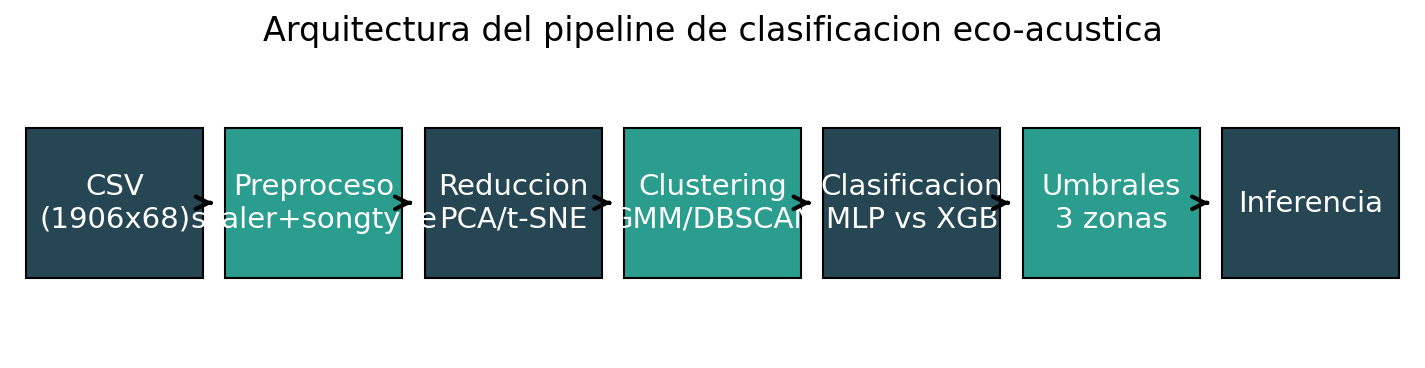
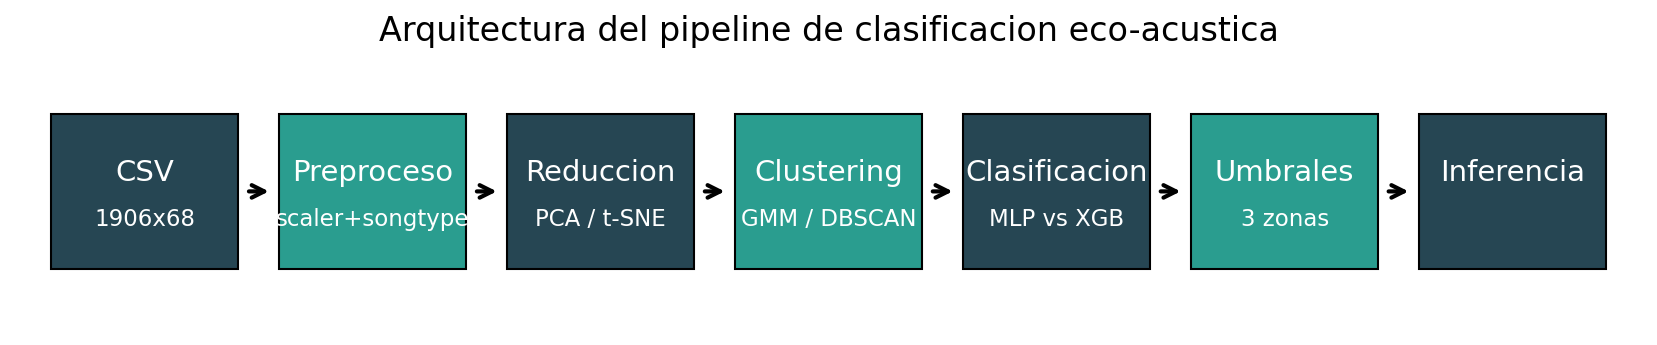
informe, app de streamlit y documentacion

Changed region(s): [[0.0, 0.3188, 0.9881, 0.7826], [0.1853, 0.029, 0.8337, 0.1449]]

diff --git a/report/informe.tex b/report/informe.tex
@@ -1,0 +1,223 @@
+\documentclass[10pt,a4paper]{article}
+\usepackage[utf8]{inputenc}
+\usepackage[T1]{fontenc}
+\usepackage[spanish,es-noindentfirst]{babel}
+\usepackage[margin=1.9cm]{geometry}
+\usepackage{graphicx}
+\usepackage{booktabs}
+\usepackage{amsmath}
+\usepackage{amssymb}
+\usepackage{caption}
+\usepackage{subcaption}
+\usepackage{float}
+\usepackage{multicol}
+\usepackage[colorlinks=true,allcolors=blue]{hyperref}
+\graphicspath{{figs/}}
+\captionsetup{font=small,labelfont=bf}
+\setlength{\parskip}{2pt}
+
+\title{\vspace{-1.2cm}\textbf{Clasificación de Señales Eco-Acústicas:\\ un pipeline integral de Machine Learning}}
+\author{CS3061 Machine Learning -- UTEC -- Proyecto 2 (Grupo 8)}
+\date{\vspace{-0.3cm}\small Junio 2026 \quad$\cdot$\quad Repositorio: \texttt{<URL\_GITHUB>}}
+
+\begin{document}
+\maketitle
+\vspace{-0.6cm}
+
+\section{Resumen Ejecutivo e Introducción al Espacio Vectorial}
+La identificación autónoma de especies a partir de su huella acústica es una herramienta
+clave para el biomonitoreo de ecosistemas. Se aborda la clasificación supervisada de
+\textbf{5 especies} (2 anfibios y 3 aves) a partir de descriptores espectrales. El conjunto
+de entrenamiento contiene $N=1906$ observaciones y el de prueba $477$, ambos descritos por
+un vector de características $\mathbf{x}\in\mathbb{R}^{64}$ correspondiente a coeficientes
+\emph{Mel-Frequency Cepstral} (\texttt{mel\_0}--\texttt{mel\_63}). La variable objetivo
+$y\in\{10,12,17,18,23\}$ presenta un \textbf{desbalance moderado de 2:1} (Fig.~\ref{fig:eda}a).
+Tras el análisis de variables auxiliares se incorporó \texttt{songtype\_id} (codificada
+\emph{one-hot}), resultando en un espacio efectivo de $66$ dimensiones.
+
+\begin{figure}[H]
+\centering
+\begin{subfigure}{0.40\textwidth}\includegraphics[width=\linewidth]{balance_clases.png}\caption{}\end{subfigure}\hfill
+\begin{subfigure}{0.40\textwidth}\includegraphics[width=\linewidth]{correlacion_mel.png}\caption{}\end{subfigure}
+\caption{(a) Distribución de clases con desbalance 2:1. (b) Multicolinealidad severa entre
+las 64 características MFCC ($113$ pares con $|r|>0.9$), lo que motiva la reducción de dimensionalidad.}
+\label{fig:eda}
+\end{figure}
+
+\textbf{Decisiones de ingeniería de datos.} Se excluyó \texttt{recording\_id} por inducir
+fuga de información (el $26.9\%$ de los identificadores del conjunto de prueba aparecen en
+entrenamiento). Las características se estandarizaron con \texttt{StandardScaler} ajustado
+\emph{únicamente} sobre el entrenamiento para evitar contaminación del conjunto de prueba.
+La arquitectura completa del pipeline se ilustra en la Fig.~\ref{fig:arq}.
+
+\begin{figure}[H]
+\centering\includegraphics[width=0.93\textwidth]{arquitectura_pipeline.png}
+\caption{Arquitectura del pipeline: desde la ingesta del CSV hasta la política de inferencia con umbrales.}
+\label{fig:arq}
+\end{figure}
+
+\section{Exploración Geométrica y Reducción de Dimensionalidad}
+Se contrastó un método lineal (PCA) frente a dos de variedades múltiples (t-SNE y UMAP).
+El PCA reveló una estructura de baja dimensionalidad intrínseca: \textbf{7 componentes}
+explican el $90\%$ de la varianza y $11$ alcanzan el $95\%$, dominando la primera componente
+con el $53.4\%$ (Fig.~\ref{fig:pca}). La Tabla~\ref{tab:red} reporta los tiempos de ejecución:
+PCA es tres órdenes de magnitud más rápido, mientras que t-SNE y UMAP, aplicados sobre una
+pre-reducción PCA(20), priorizan la preservación de la estructura local a un costo mayor.
+
+\begin{figure}[H]
+\centering
+\begin{subfigure}{0.45\textwidth}\includegraphics[width=\linewidth]{pca_varianza.png}\caption{}\end{subfigure}\hfill
+\begin{subfigure}{0.52\textwidth}\includegraphics[width=\linewidth]{proyecciones_2d.png}\caption{}\end{subfigure}
+\caption{(a) Varianza explicada por componente y acumulada. (b) Proyecciones 2D: las dos
+especies de anfibios tienden a separarse de las aves, pero persiste solapamiento intra-grupo.}
+\label{fig:pca}
+\end{figure}
+
+\begin{table}[H]
+\centering\small
+\begin{tabular}{lccc}
+\toprule
+Método & Tiempo (s) & Varianza retenida & Estructura preservada \\
+\midrule
+PCA(2)  & 0.0012 & 67.1\% & Global \\
+PCA(7)  & 0.0012 & 90.0\% & Global \\
+t-SNE(2) & 3.30 & --- & Local \\
+UMAP(2)  & 8.07 & --- & Local + global \\
+\bottomrule
+\end{tabular}
+\caption{Comparación de métodos de reducción de dimensionalidad (sobre $1906$ muestras).}
+\label{tab:red}
+\end{table}
+
+\section{Minería de Patrones y Estructuras de Clustering}
+Se compararon dos paradigmas: KMeans/GMM (centroide/probabilístico) y DBSCAN (densidad),
+operando sobre la proyección PCA(20). El número de grupos se eligió mediante el
+\textbf{Coeficiente de Silhouette} (Fig.~\ref{fig:clu}), cuyo máximo se ubica en $k=2$,
+sugiriendo que la partición no supervisada más nítida corresponde a la dicotomía
+\emph{anfibios vs.\ aves} antes que a las 5 especies. DBSCAN, barriendo $\varepsilon\in\{2.5,3.0,3.5\}$,
+fragmentó el espacio en $11$--$18$ grupos con ruido decreciente (Tabla~\ref{tab:db}).
+
+\begin{figure}[H]
+\centering\includegraphics[width=0.55\textwidth]{silhouette_k.png}
+\caption{Selección de $k$ por Silhouette para KMeans y GMM. El óptimo en $k=2$ refleja la separación anfibio/ave.}
+\label{fig:clu}
+\end{figure}
+
+\begin{table}[H]
+\centering\small
+\begin{tabular}{cccc}
+\toprule
+$\varepsilon$ & N.º clusters & \% ruido & Silhouette \\
+\midrule
+2.5 & 17 & 42.0\% & $-0.155$ \\
+3.0 & 18 & 26.7\% & $-0.051$ \\
+3.5 & 11 & 14.7\% & $\phantom{-}0.099$ \\
+\bottomrule
+\end{tabular}
+\caption{DBSCAN para distintos $\varepsilon$ (min\_samples$=5$).}
+\label{tab:db}
+\end{table}
+
+\noindent\textbf{Hallazgo.} El índice ARI entre el GMM de 5 componentes y las etiquetas reales
+es de apenas $0.051$: el agrupamiento acústico no supervisado \emph{no reconstruye la taxonomía}.
+Esto evidencia que la separación entre especies cercanas exige información supervisada.
+
+\section{Arquitectura de Clasificación: MLP vs.\ Modelos de Ensamble}
+Se entrenó un Perceptrón Multicapa (MLP) frente a un modelo de ensamble por \emph{gradient
+boosting} (XGBoost). Dada la naturaleza desbalanceada del problema, la métrica primaria es el
+\textbf{F1-Score macro} y la función de pérdida es la \emph{Cross-Entropy ponderada por clase}:
+\begin{equation}
+\mathcal{L} = -\frac{1}{N}\sum_{i=1}^{N}\sum_{c=1}^{5} w_c\, y_{i,c}\,\log \hat{p}_{i,c},
+\qquad w_c = \frac{N}{5\,n_c}.
+\end{equation}
+La topología del MLP se detalla en la Tabla~\ref{tab:topo}. Se validó con
+\texttt{StratifiedKFold} ($5$ particiones) y pesos de clase balanceados en ambos modelos.
+
+\begin{table}[H]
+\centering\small
+\begin{tabular}{llll}
+\toprule
+Capa & Salida & Activación & Regularización \\
+\midrule
+Linear & 256 & ReLU & BatchNorm + Dropout(0.3) \\
+Linear & 128 & ReLU & BatchNorm + Dropout(0.3) \\
+Linear & 64  & ReLU & BatchNorm + Dropout(0.3) \\
+Linear & 5   & Softmax & --- \\
+\bottomrule
+\end{tabular}
+\caption{Topología del MLP ($66\to256\to128\to64\to5$).}
+\label{tab:topo}
+\end{table}
+
+\textbf{Regularización.} Se evaluó empíricamente la \emph{posición relativa} de Dropout y
+BatchNorm sobre las curvas de pérdida (Fig.~\ref{fig:modelos}a). La configuración sin
+regularización minimiza la pérdida de entrenamiento ($0.39$) pero a costa de sobreajuste;
+las variantes regularizadas convergen a pérdidas mayores ($0.67$--$0.73$) y mejor generalización.
+
+\begin{figure}[H]
+\centering
+\begin{subfigure}{0.40\textwidth}\includegraphics[width=\linewidth]{curvas_dropout_bn.png}\caption{}\end{subfigure}\hfill
+\begin{subfigure}{0.28\textwidth}\includegraphics[width=\linewidth]{confusion_mlp.png}\caption{}\end{subfigure}\hfill
+\begin{subfigure}{0.28\textwidth}\includegraphics[width=\linewidth]{confusion_xgb.png}\caption{}\end{subfigure}
+\caption{(a) Impacto de la posición de Dropout/BatchNorm en la pérdida. (b)--(c) Matrices de
+confusión sobre el conjunto de prueba oficial para MLP y XGBoost; la confusión se concentra
+entre especies acústicamente cercanas.}
+\label{fig:modelos}
+\end{figure}
+
+\begin{table}[H]
+\centering\small
+\begin{tabular}{lccc}
+\toprule
+Modelo & F1-macro (CV) & F1-macro (test oficial) & Latencia (ms/muestra) \\
+\midrule
+MLP (PyTorch)      & $0.536$ & $\mathbf{0.575}$ & $0.0009$ \\
+XGBoost (ensamble) & $0.489$ & $0.536$ & $0.0075$ \\
+\bottomrule
+\end{tabular}
+\caption{Comparación de modelos. El MLP supera al ensamble en F1-macro y latencia.}
+\label{tab:modelos}
+\end{table}
+
+El MLP obtiene el mejor desempeño (F1-macro $=0.575$ en prueba, Tabla~\ref{tab:modelos}),
+consistente con la dificultad intrínseca estimada en el análisis exploratorio. Las matrices
+de confusión (Fig.~\ref{fig:modelos}b--c) confirman que el error se concentra en pares de
+especies con solapamiento espectral, no en un sesgo hacia la clase mayoritaria.
+
+\section{Decisiones de Ingeniería y Mitigación de Riesgos}
+\textbf{Trade-off costo--rendimiento.} El MLP no solo iguala sino que supera al ensamble en
+calidad ($+0.039$ F1-macro) con una latencia $8\times$ menor ($0.0009$ vs.\ $0.0075$ ms/muestra),
+ampliamente dentro de cualquier SLA operativo. Se selecciona por tanto como modelo de despliegue.
+
+\textbf{Política de moderación por umbrales.} Sobre el vector de probabilidades \emph{softmax}
+se define una política de tres zonas (Fig.~\ref{fig:umb}): \textbf{Verde} ($P\ge0.85$,
+clasificación automática), \textbf{Amarilla} ($0.40\le P<0.85$, derivación a auditoría humana)
+y \textbf{Roja} ($P<0.40$, descarte por ruido). La distribución de cobertura medida es
+$24.5\%$ / $67.1\%$ / $8.4\%$ respectivamente; la zona verde alcanza una exactitud del
+$76.1\%$ pese al F1-macro global moderado. Descartar la zona roja eleva el F1-macro de
+$0.536$ a $0.569$, validando cuantitativamente el umbral inferior.
+
+\begin{figure}[H]
+\centering\includegraphics[width=0.55\textwidth]{umbrales_zonas.png}
+\caption{Distribución de confianza del modelo y zonas operativas de decisión.}
+\label{fig:umb}
+\end{figure}
+
+\section*{Contribution Statement}
+\addcontentsline{toc}{section}{Contribution Statement}
+\begin{table}[H]
+\centering\small
+\begin{tabular}{p{4.5cm}cp{7cm}}
+\toprule
+\textbf{Integrante} & \textbf{\% Contrib.} & \textbf{Tareas encargadas} \\
+\midrule
+Integrante 1 & 25\% & EDA, preprocesamiento, reducción de dimensionalidad \\
+Integrante 2 & 25\% & Clustering, métricas internas, redacción \\
+Integrante 3 & 25\% & Modelado MLP/XGBoost, experimentos de regularización \\
+Integrante 4 & 25\% & MLOps, umbrales, informe y repositorio \\
+\bottomrule
+\end{tabular}
+\caption{Matriz de coevaluación del equipo (completar con nombres reales).}
+\end{table}
+
+\end{document}

diff --git a/app.py b/app.py
@@ -1,0 +1,65 @@
+"""Bonus Streamlit (+2): inferencia simulada con escenarios reales del test + semaforo de umbrales.
+Uso:  ./venv/bin/streamlit run app.py
+"""
+import numpy as np
+import pandas as pd
+import joblib
+import streamlit as st
+from pathlib import Path
+
+BASE = Path(__file__).resolve().parent
+MEL = [f"mel_{i}" for i in range(64)]
+SPECIES = {10: "Leptodactylus discodactylus (anfibio)", 12: "Osteocephalus taurinus (anfibio)",
+           17: "Chiroxiphia lineata (ave)", 18: "Saltator grossus (ave)",
+           23: "Pheucticus chrysopeplus (ave)"}
+CLASES = [10, 12, 17, 18, 23]
+
+st.set_page_config(page_title="Clasificador Eco-Acustico", page_icon="🐸", layout="centered")
+st.title("🐦 Clasificador de Señales Eco-Acústicas")
+st.caption("CS3061 · Proyecto 2 · Inferencia con política de moderación por umbrales")
+
+
[email redacted]_resource
+def cargar():
+    data = joblib.load(BASE / "models/xgb_scaler.pkl")
+    test = pd.read_csv(BASE / "data/eco_acoustic_test.csv")
+    return data["xgb"], data["scaler"], test
+
+
+modelo, scaler, test = cargar()
+
+# escenarios precargados: 6 grabaciones reales del test
+ids = test["recording_id"].drop_duplicates().head(6).tolist()
+sel = st.selectbox("Escenario (grabación real del conjunto de prueba):", ids)
+fila = test[test["recording_id"] == sel].iloc[0]
+
+# preprocesar igual que en entrenamiento (scaler de mel + songtype one-hot)
+x_mel = scaler.transform(fila[MEL].to_numpy().reshape(1, -1))
+st_dummies = pd.get_dummies(test["songtype_id"], prefix="songtype").iloc[[fila.name]].to_numpy()
+X = np.hstack([x_mel, st_dummies]).astype(np.float32)
+
+proba = modelo.predict_proba(X)[0]
+pred = CLASES[int(proba.argmax())]
+pmax = float(proba.max())
+
+# --- semaforo de 3 zonas ---
+if pmax >= 0.85:
+    zona, color, accion = "VERDE", "#2a9d8f", "Clasificación automática (alta confianza)"
+elif pmax >= 0.40:
+    zona, color, accion = "AMARILLA", "#e9c46a", "Derivar a auditoría humana (incertidumbre)"
+else:
+    zona, color, accion = "ROJA", "#e76f51", "Descartar registro (probable ruido)"
+
+c1, c2 = st.columns([1, 1])
+c1.metric("Especie predicha", f"#{pred}")
+c1.write(SPECIES[pred])
+c2.metric("Confianza (P máx)", f"{pmax*100:.1f}%")
+st.markdown(f"<div style='background:{color};padding:14px;border-radius:8px;color:white;"
+            f"font-weight:bold;font-size:18px'>Zona {zona} — {accion}</div>", unsafe_allow_html=True)
+
+st.subheader("Distribución de probabilidad por especie")
+df = pd.DataFrame({"especie": [SPECIES[c] for c in CLASES], "probabilidad": proba})
+st.bar_chart(df.set_index("especie"))
+
+st.caption("Umbrales: Verde P≥85% · Amarillo 40–85% · Rojo <40%. "
+           "Especie real de este registro: #" + str(int(fila["species_id"])))

diff --git a/src/s1_eda.py b/src/s1_eda.py
@@ -34,20 +34,23 @@ def fig_corr(tr):
 
 def fig_arquitectura():
     """Diagrama de arquitectura del pipeline (C1), generado con matplotlib (sin deps externas)."""
-    fig, ax = plt.subplots(figsize=(12, 2.6))
+    fig, ax = plt.subplots(figsize=(14, 2.4))
     ax.axis("off")
-    etapas = ["CSV\n(1906x68)", "Preproceso\nscaler+songtype", "Reduccion\nPCA/t-SNE",
-              "Clustering\nGMM/DBSCAN", "Clasificacion\nMLP vs XGB", "Umbrales\n3 zonas", "Inferencia"]
-    n = len(etapas); w = 1.0 / n
-    for i, txt in enumerate(etapas):
+    etapas = [("CSV", "1906x68"), ("Preproceso", "scaler+songtype"), ("Reduccion", "PCA / t-SNE"),
+              ("Clustering", "GMM / DBSCAN"), ("Clasificacion", "MLP vs XGB"),
+              ("Umbrales", "3 zonas"), ("Inferencia", "")]
+    n = len(etapas); w = 1.0 / n; pad = 0.18 * w
+    for i, (tit, sub) in enumerate(etapas):
         x = i * w
-        ax.add_patch(plt.Rectangle((x + 0.008, 0.25), w - 0.016, 0.5,
+        ax.add_patch(plt.Rectangle((x + pad/2, 0.22), w - pad, 0.56,
                      facecolor="#264653" if i % 2 == 0 else "#2a9d8f", edgecolor="black"))
-        ax.text(x + w/2, 0.5, txt, ha="center", va="center", color="white", fontsize=14)
+        ax.text(x + w/2, 0.57, tit, ha="center", va="center", color="white", fontsize=14)
+        if sub:
+            ax.text(x + w/2, 0.40, sub, ha="center", va="center", color="white", fontsize=11)
         if i < n - 1:
-            ax.annotate("", xy=(x + w + 0.002, 0.5), xytext=(x + w - 0.006, 0.5),
+            ax.annotate("", xy=(x + w + pad/2 - 0.004, 0.5), xytext=(x + w - pad/2 + 0.004, 0.5),
                         arrowprops=dict(arrowstyle="->", lw=2))
-    ax.set_xlim(0, 1); ax.set_ylim(0, 1)
+    ax.set_xlim(-0.01, 1.01); ax.set_ylim(0, 1)
     ax.set_title("Arquitectura del pipeline de clasificacion eco-acustica", fontsize=16)
     return savefig(fig, "arquitectura_pipeline.png")
 

diff --git a/run_all.py b/run_all.py
@@ -1,0 +1,12 @@
+"""Reproduce todo el pipeline en orden (Sprints 0-5). Genera figuras y report/facts.json.
+Uso:  KMP_DUPLICATE_LIB_OK=TRUE OMP_NUM_THREADS=1 ./venv/bin/python run_all.py
+"""
+import os, sys, runpy
+os.environ.setdefault("KMP_DUPLICATE_LIB_OK", "TRUE")
+os.environ.setdefault("OMP_NUM_THREADS", "1")
+sys.path.insert(0, os.path.join(os.path.dirname(__file__), "src"))
+
+for mod in ["data", "s1_eda", "s2_reduccion", "s3_clustering", "s4_modelos", "s5_umbrales"]:
+    print(f"\n=== {mod} ===")
+    runpy.run_module(mod, run_name="__main__")
+print("\nPipeline completo. Ver figs/ y report/facts.json")

diff --git a/README.md b/README.md
@@ -1,0 +1,47 @@
+# Clasificación de Señales Eco-Acústicas — CS3061 Proyecto 2 (Grupo 8)
+
+Pipeline integral de Machine Learning que clasifica **5 especies** (2 anfibios + 3 aves)
+a partir de 64 coeficientes MFCC (X ∈ ℝ⁶⁴). Curso CS3061 Machine Learning, UTEC.
+
+## Resultados
+| Modelo | F1-macro (CV) | F1-macro (test oficial) | Latencia |
+|---|---|---|---|
+| **MLP (PyTorch)** | 0.536 | **0.575** | 0.0009 ms/muestra |
+| XGBoost | 0.489 | 0.536 | 0.0075 ms/muestra |
+
+El MLP es el modelo de despliegue. La tarea es intrínsecamente difícil (las especies
+cercanas se solapan acústicamente); el valor está en el análisis, no en un número inflado.
+
+## Estructura
+```
+src/            data.py (preproc) · s1_eda · s2_reduccion · s3_clustering · s4_modelos · s5_umbrales
+figs/           10 figuras (todas fuente ≥14)
+report/         informe.tex + informe.pdf (4 págs) + facts.json + figs/
+models/         mlp.pt · xgb_scaler.pkl
+app.py          bonus Streamlit (semáforo de umbrales)
+run_all.py      reproduce todo el pipeline
+PLAN.md         sprints + tests · HALLAZGOS_RECON.md  análisis previo
+```
+
+## Reproducir
+```bash
+python3 -m venv venv && ./venv/bin/pip install -r requirements.txt
+KMP_DUPLICATE_LIB_OK=TRUE OMP_NUM_THREADS=1 ./venv/bin/python run_all.py   # pipeline completo
+cd report && tectonic informe.tex                                          # compilar informe
+./venv/bin/streamlit run app.py                                            # app bonus
+```
+> Nota macOS: las env vars `KMP_DUPLICATE_LIB_OK`/`OMP_NUM_THREADS` evitan un segfault
+> por la libomp duplicada entre PyTorch y XGBoost.
+
+## Decisiones de ingeniería de datos
+- **`recording_id` excluido**: 26.9% de IDs de test están en train (fuga de información).
+- **`songtype_id` incluido** (one-hot): aporta +9.4% F1-macro.
+- **`StandardScaler`** ajustado solo en train (sin contaminar el test).
+- Métrica primaria **F1-macro** (no Accuracy) por el desbalance 2:1; `class_weight` balanceado.
+
+## Pipeline por criterio de rúbrica
+1. **C1** Diagrama de arquitectura + espacio vectorial ℝ⁶⁴.
+2. **C2** PCA (7 comp = 90% var) vs t-SNE vs UMAP, con tiempos.
+3. **C3** GMM vs DBSCAN + Silhouette; ARI=0.05 → el clustering no reconstruye la taxonomía.
+4. **C4** MLP vs XGBoost, F1-macro, matrices de confusión, experimento de posición Dropout/BatchNorm.
+5. **C5** Política de umbrales (Verde 24.5% / Amarillo 67.1% / Rojo 8.4%) + trade-off latencia/F1.